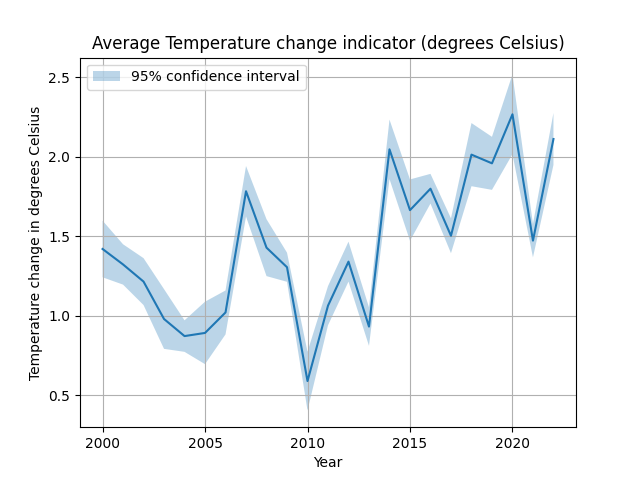
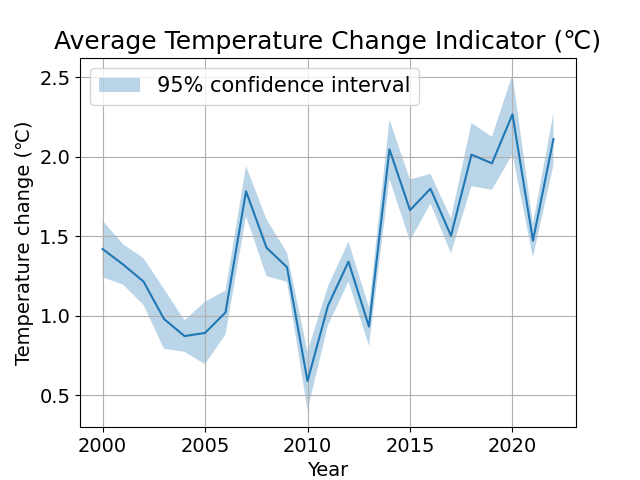
Created final plots

diff --git a/project/analysis.py b/project/analysis.py
@@ -39,7 +39,7 @@ class Analysis:
         self.__create_plot_folder()
 
         self.column_name_to_title_description = {
-            "CHANGE_INDICATOR": "Temperature change indicator (degrees Celsius)",
+            "CHANGE_INDICATOR": "Temperature Change Indicator (℃)",
             "TOE_HAB": "Tonnes of Oil Equivalents per capita",
             "MTOE": "Million Tonnes of Oil Equivalent per GDP",
         }
@@ -92,7 +92,9 @@ class Analysis:
     def create_map_plot(
             self, 
             column: str, 
-            average: bool = True
+            average: bool = True,
+            title_fontsize: int = 20,
+            colorbar_fontsize: int = 15
             ) -> None:
 
         if column not in self.europe.columns:
@@ -109,12 +111,12 @@ class Analysis:
             europe_avg.plot(column=column+"_avg", ax=ax, legend=True, cmap="Reds")
 
             if column == "CHANGE_INDICATOR":
-                plt.title("Average temperature increase", fontsize=20)
+                plt.title("Average temperature increase (℃)", fontsize=title_fontsize)
             else:
                 plt.title(f"Average {self.column_name_to_title_description[column]} (2000 - 2022)")
             
-            cbar = ax.get_figure().get_axes()[1]
-            cbar.tick_params(labelsize=15)
+            cbar = ax.get_figure().get_axes()[1] 
+            cbar.tick_params(labelsize=colorbar_fontsize)
 
         else:
             self.europe.boundary.plot(ax=ax, color="black")
@@ -159,7 +161,10 @@ class Analysis:
             average: bool = True,
             confidence_interval: bool = False,
             ylim: Tuple[int, int] = None,
-            xlim: Tuple[int, int] = None
+            xlim: Tuple[int, int] = None,
+            title_fontsize: int = 20,
+            label_fontsize: int = 15, 
+            annot_fontsize: int = 15
             ) -> None:
 
         if column not in self.europe.columns:
@@ -171,7 +176,7 @@ class Analysis:
                 average_data, on="TIME_PERIOD", suffixes=("", "_avg"))
 
             sns.lineplot(data=europe_avg, x="TIME_PERIOD", y=column+"_avg")
-            plt.title("Average " + self.column_name_to_title_description[column])
+            plt.title("Average " + self.column_name_to_title_description[column], fontsize=title_fontsize)
         
             if confidence_interval:
                 ci_per_year = self.europe.groupby("TIME_PERIOD")[column].agg(["std", "size"]).reset_index()
@@ -196,13 +201,16 @@ class Analysis:
             plt.xlim(xlim)
 
         if column == "CHANGE_INDICATOR":
-            plt.ylabel("Temperature change in degrees Celsius")
+            plt.ylabel("Temperature change (℃)", fontsize=annot_fontsize)
         else:
-            plt.ylabel(column)
+            plt.ylabel(column, fontsize=annot_fontsize)
 
-        plt.xlabel("Year")
+        plt.xlabel("Year", fontsize=annot_fontsize)
         plt.grid(True)
-        plt.legend()
+        plt.legend(fontsize=label_fontsize)
+
+        plt.yticks(fontsize=annot_fontsize)
+        plt.xticks(fontsize=annot_fontsize)
 
         save_path = os.path.join(self.PLOT_ROOT_DIR, column + "_lineplot.png")
         plt.savefig(save_path)
@@ -397,13 +405,25 @@ if __name__ == "__main__":
     data = pd.read_csv(data_path)
     analysis = Analysis(data)
 
-    analysis.create_map_plot("CHANGE_INDICATOR", average=True)
-
+    analysis.create_map_plot(
+        "CHANGE_INDICATOR", 
+        average=True,
+        title_fontsize=25,
+        colorbar_fontsize=20
+        )
+    
     analysis.create_heatmap("CHANGE_INDICATOR", cmap="Reds")
     analysis.create_heatmap("TOE_HAB", cmap="coolwarm")
     analysis.create_heatmap("MTOE", cmap="coolwarm")
 
-    analysis.create_lineplot("CHANGE_INDICATOR", average=True, confidence_interval=True)
+    analysis.create_lineplot(
+        "CHANGE_INDICATOR", 
+        average=True, 
+        confidence_interval=True,
+        title_fontsize=18,
+        label_fontsize=15,
+        annot_fontsize=14 
+        )
     
     analysis.create_lineplot(
         "TOE_HAB", 
@@ -425,24 +445,27 @@ if __name__ == "__main__":
     analysis.create_correlation_plot(
         label_fontsize=20,
         annot_fontsize=20,
-        method="spearman")
+        method="spearman"
+        )
     
+    title_size = 40
+    tick_size = 35
+
     analysis.twinx_lineplot(
         "MTOE", 
         "TOE_HAB", 
         average=True,
-        title_fontsize=30,
-        label_fontsize=30,
-        tick_fontsize=25
+        title_fontsize=title_size,
+        label_fontsize=title_size,
+        tick_fontsize=tick_size
         )
 
     analysis.twinx_scatterplot(
         "MTOE",
         "TOE_HAB",
         average=True,
-        title_fontsize=30,
-        label_fontsize=30,
-        tick_fontsize=25,
-        s=70
+        title_fontsize=title_size,
+        label_fontsize=title_size,
+        tick_fontsize=tick_size,
+        s=120
         )
-'''
